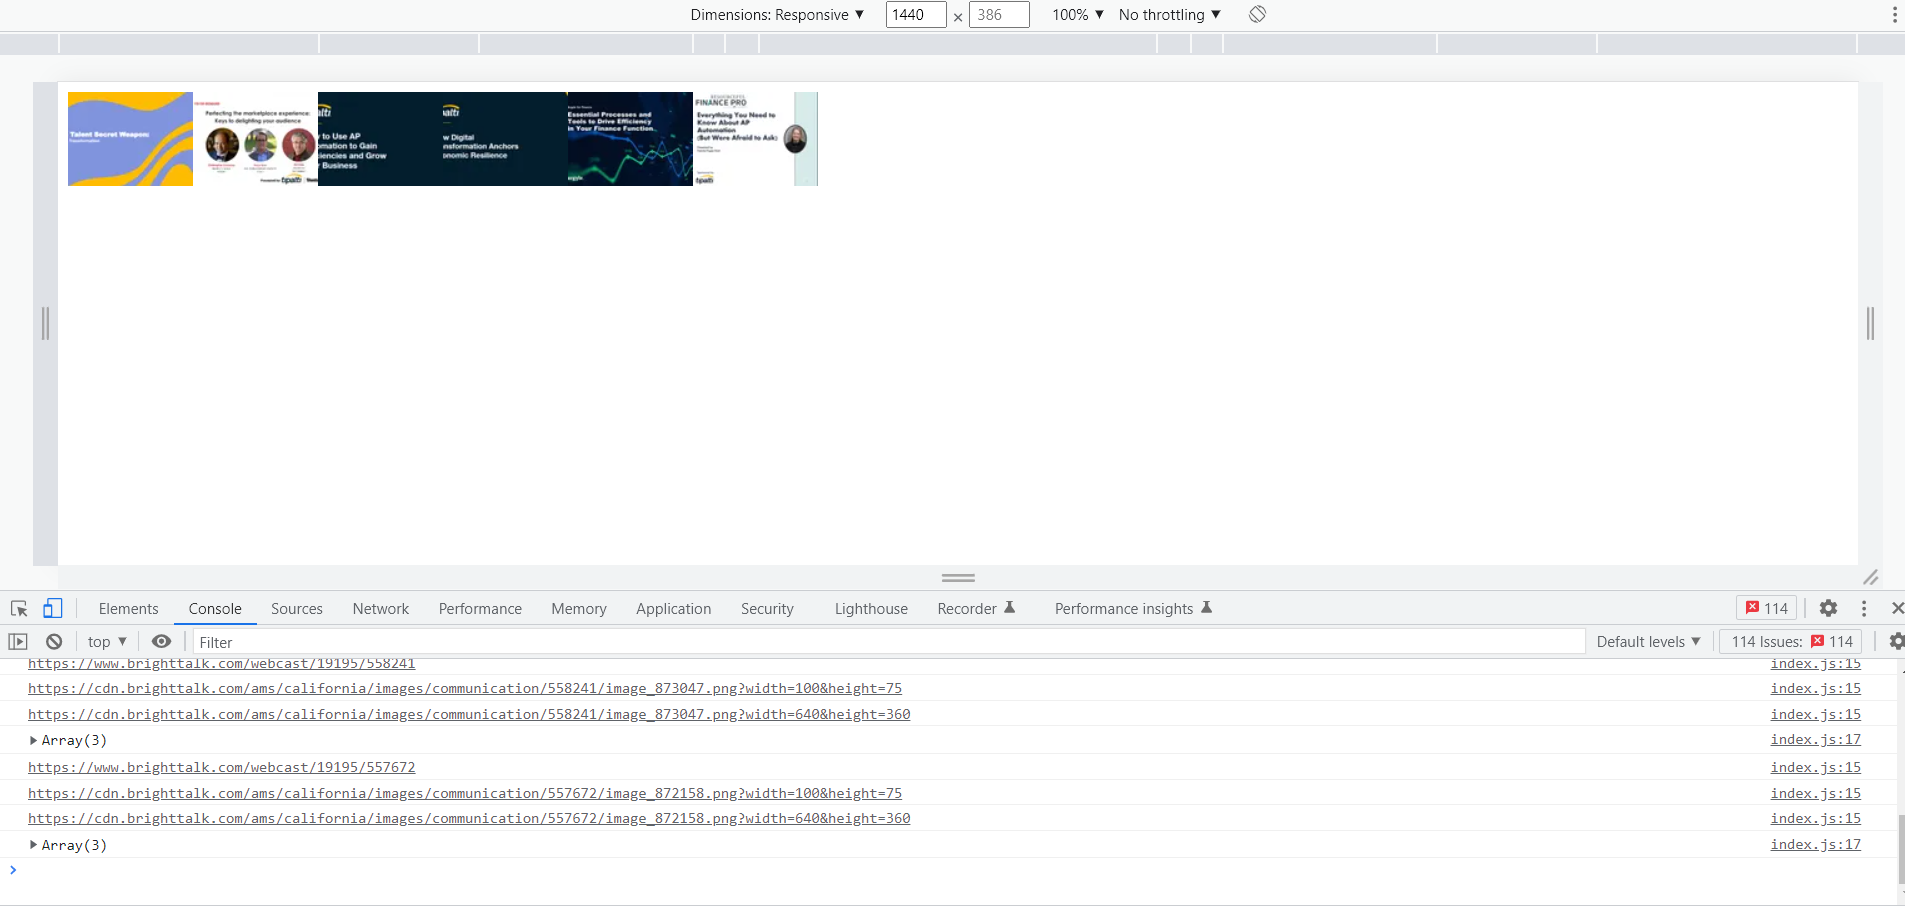
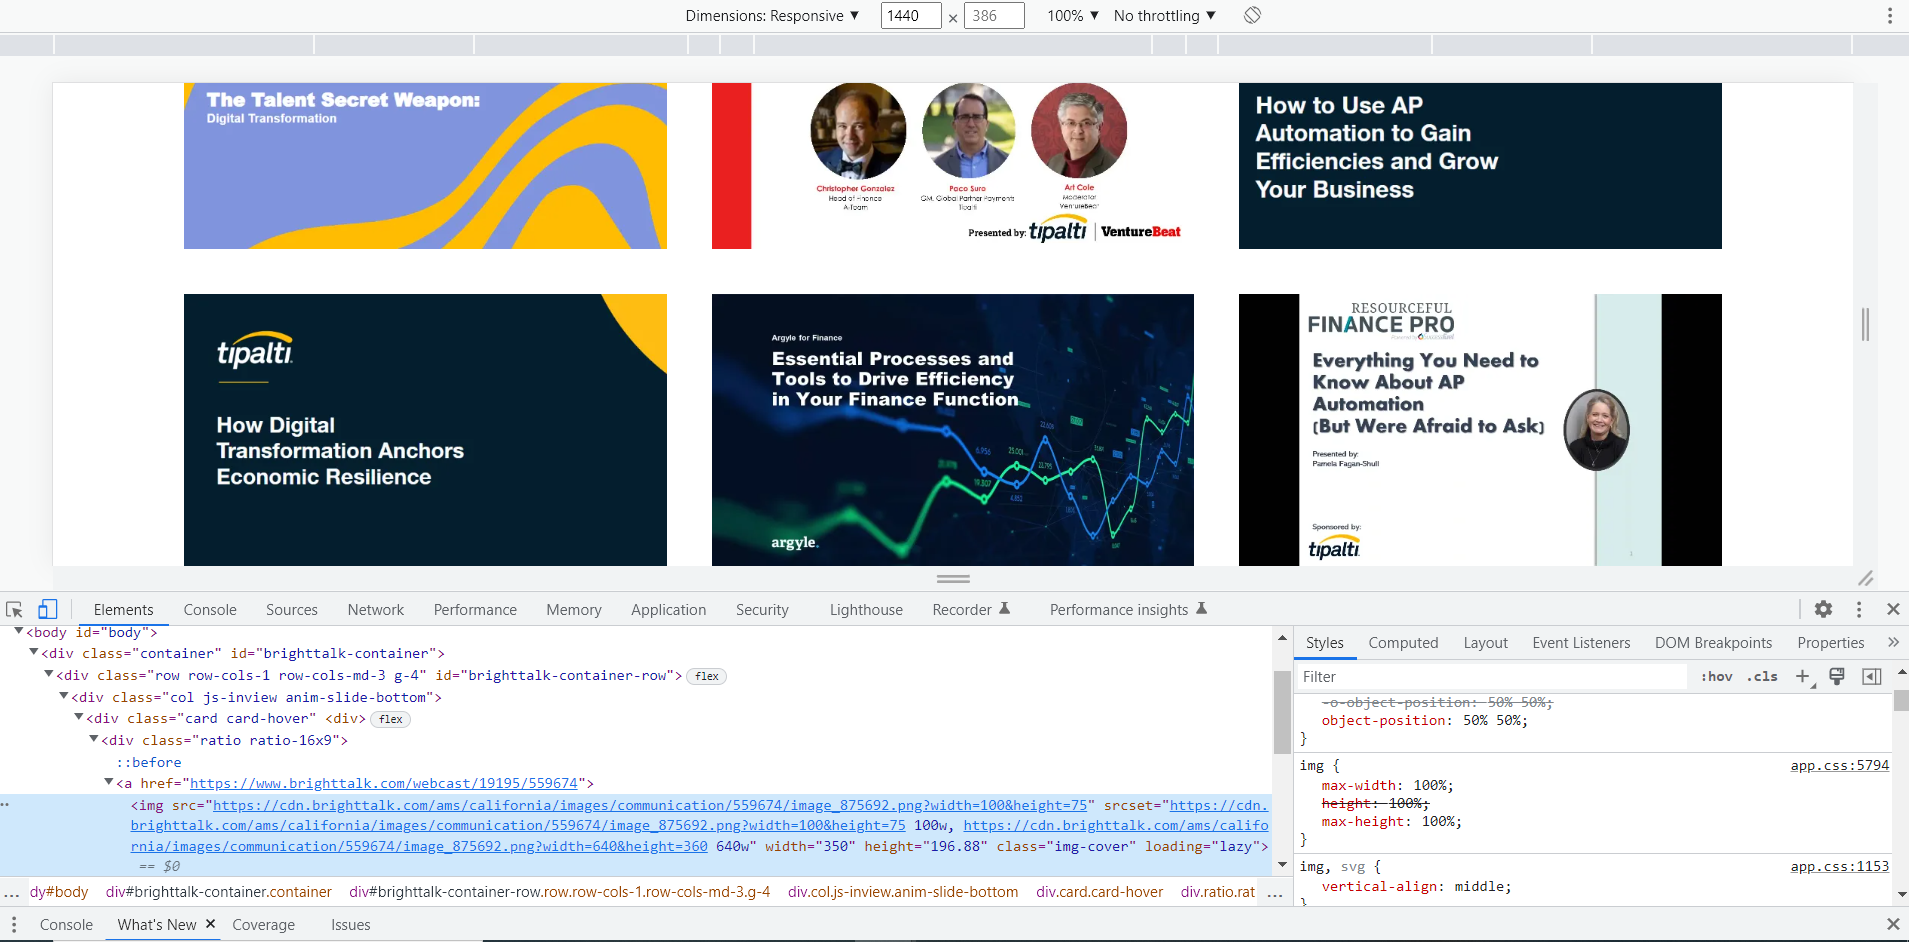
Updated day 3 README.md

diff --git a/README.md b/README.md
@@ -7,7 +7,8 @@
 * XML data required an XML function (```document.evaluate()```) to retrieve relevant     information from attributes (such as ```href``` values) found within the feed element. Successfully passed fetched and parsed XML data into ```evaluate()``` function to retrieve node information. 
 * Found work-around for NS Resolver to direct XPath to correct node. Retrieved ```href``` values for ```links``` under ```entry``` node.
 * Accessed all ```href``` values that are attributes of ```links``` descended from ```entries```.
-* Created ```createVideoEl()``` function to render webinar links with correct thumnail images.
+* Created ```createVideoEl()``` function to render webinar links with correct thumbnail images.
+* Created ```createContainerRow()``` function to target container tag and create a single row to emulate card functionality throught the rest of the Tipalti site. 
 
 
 ## Future Steps:
@@ -18,5 +19,5 @@
 
 
  ## Daily Screenshot
- * This image shows the href values logged to the console and video links rendered as children of the body tag with correct thumbnails.
-   ![day two image](./assets/img/day-3.PNG "Day Three")
+ * Shows the BrightTALK cards rendered in their col-1-med-3 flex orientation. All links direct towards href provided from XML content. 
+   ![day three image](./assets/img/day-3.PNG "Day Three")
